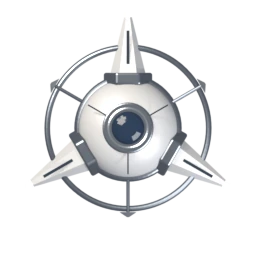
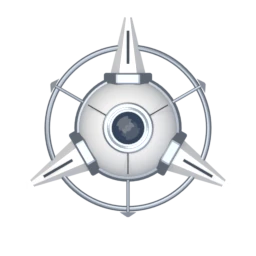
feat(render): forged drones turn slowly; a Ziele scene in the look gallery
The drone turns and hovers, each at its own pace and direction. Its Blender render now has soft
overhead light, and the field's light is put over the turned hull in code so it stays put.
The look gallery gets a Ziele scene (the pilot and five target drones, built with newPlayer
as ChallengeMatch does); Zielhilfen no longer claims to show the daily target.

Changed region(s): [[0.125, 0.0625, 0.8438, 0.8438], [0.6562, 0.6875, 0.75, 0.7812]]

diff --git a/src/render/looks/forged.ts b/src/render/looks/forged.ts
@@ -191,10 +191,44 @@ const DRONE_SPAN = 32.5;
 const DRONE_LAMP = 14.5;
 const DRONE_PYLONS = [90, 210, 330];
 
+/** The drone is turned and lit on this canvas (`DRONE_PX` across) before it is drawn: the field's light does not turn with it. */
+const DRONE_PX = 256;
+let droneCanvas: HTMLCanvasElement | null = null;
+
+/** The hull turned by `angle`, shaded away from the field's light and glinting towards it. The shared canvas is only good until the next call. */
+function turnedDrone(ctx: CanvasRenderingContext2D, hull: HTMLCanvasElement, angle: number): HTMLCanvasElement {
+  const [lx, ly] = lightInFrame(ctx);
+  droneCanvas ??= Object.assign(document.createElement('canvas'), { width: DRONE_PX, height: DRONE_PX });
+  const c = droneCanvas.getContext('2d')!;
+  c.setTransform(1, 0, 0, 1, 0, 0);
+  c.globalCompositeOperation = 'source-over';
+  c.clearRect(0, 0, DRONE_PX, DRONE_PX);
+  const k = DRONE_PX / DRONE_SPAN;
+  c.setTransform(k, 0, 0, k, DRONE_PX / 2, DRONE_PX / 2);
+  c.save();
+  c.rotate(angle);
+  c.drawImage(hull, -DRONE_SPAN / 2, -DRONE_SPAN / 2, DRONE_SPAN, DRONE_SPAN);
+  c.restore();
+  c.globalCompositeOperation = 'source-atop';
+  const shade = c.createLinearGradient(lx * 13, ly * 13, -lx * 13, -ly * 13);
+  shade.addColorStop(0, 'rgba(255,248,235,0.22)');
+  shade.addColorStop(0.5, 'rgba(255,255,255,0)');
+  shade.addColorStop(1, 'rgba(4,8,20,0.5)');
+  c.fillStyle = shade;
+  c.fillRect(-DRONE_SPAN, -DRONE_SPAN, DRONE_SPAN * 2, DRONE_SPAN * 2);
+  const glint = c.createRadialGradient(lx * 6, ly * 6, 0, lx * 6, ly * 6, 9);
+  glint.addColorStop(0, 'rgba(255,255,255,0.3)');
+  glint.addColorStop(1, 'rgba(255,255,255,0)');
+  c.fillStyle = glint;
+  c.fillRect(-DRONE_SPAN, -DRONE_SPAN, DRONE_SPAN * 2, DRONE_SPAN * 2);
+  c.globalCompositeOperation = 'source-over';
+  return droneCanvas;
+}
+
 /**
  * The target of a daily challenge: a rendered space drone, an armoured orb with a lens, three blade pylons and an orbit
- * ring, in the target's colour and hovering in the ring of its hit box. The hull keeps the light it was rendered in; the
- * lens breathes and the pylon lamps blink in code. Until the images have loaded, the engraved diamond stands in.
+ * ring, in the target's colour, hovering and turning slowly in the ring of its hit box. The field's light is put over the hull
+ * in code, so it stays where it is as the drone turns; the lens breathes and the pylon lamps blink. Until the images have loaded, the engraved diamond stands in.
  */
 export function drawForgedTarget(ctx: CanvasRenderingContext2D, x: number, y: number, color: string, time: number): void {
   const hull = painted('drone', 'droneMask', color);
@@ -228,9 +262,12 @@ export function drawForgedTarget(ctx: CanvasRenderingContext2D, x: number, y: nu
 
   ctx.save();
   ctx.translate(x, y);
-  // the field's light does not turn with the drone, so the hull stays where it was rendered; a slow hover is all it does
+  // a slow hover, and a slow turn (every drone its own way and pace)
   ctx.translate(0, Math.sin(time * 1.6 + phase) * 0.7);
-  ctx.drawImage(hull, -DRONE_SPAN / 2, -DRONE_SPAN / 2, DRONE_SPAN, DRONE_SPAN);
+  const turn = ((Math.floor(x / 7) + Math.floor(y / 5)) % 2 ? 1 : -1) * (0.16 + 0.05 * ((Math.abs(x * 3 + y) % 7) / 7));
+  const angle = time * turn + phase * 40;
+  ctx.drawImage(turnedDrone(ctx, hull, angle), -DRONE_SPAN / 2, -DRONE_SPAN / 2, DRONE_SPAN, DRONE_SPAN);
+  ctx.rotate(angle);
   ctx.globalCompositeOperation = 'lighter';
   // the lens in the orb's top: a lit eye that breathes
   const eye = ctx.createRadialGradient(0, 0, 0, 0, 0, 4.2);

diff --git a/src/debug/looks-gallery.ts b/src/debug/looks-gallery.ts
@@ -5,6 +5,7 @@ import '@fontsource/b612-mono/400';
 import '@fontsource/b612-mono/700';
 import './looks-gallery.css';
 import { createMatch, type Match, type Scene as FieldScene } from '../game';
+import { newPlayer } from '../game/match';
 import { DEFAULT_SETTINGS, type Seat } from '../data/settings';
 import { LOOKS as LOOK_IDS, lookLabelKey, setLook, type Look } from '../data/look';
 import { t } from '../platform/i18n';
@@ -49,6 +50,7 @@ const settings = (seats: Seat[], extra: Partial<typeof DEFAULT_SETTINGS> = {}) =
 });
 
 const HUMANS: Seat[] = ['human', 'human', 'human', 'off', 'off', 'off'];
+const SIX: Seat[] = ['human', 'human', 'human', 'human', 'human', 'human'];
 
 interface Card {
   look: Look;
@@ -326,7 +328,7 @@ const SCENES: Scene[] = [
   },
   {
     title: 'Zielhilfen',
-    sub: 'Zielvektor, Vorschau-Pfad, Schussuhr, gesperrtes Schiff, Schonfrist, Sudden-Death-Zug, Ziel der Tagesaufgabe, Schuss außerhalb des Felds',
+    sub: 'Zielvektor, Vorschau-Pfad, Schussuhr, gesperrtes Schiff, Schonfrist, Sudden-Death-Zug, Schuss außerhalb des Felds',
     build: () => {
       const match = aiming('classic', 11, { powerUps: true });
       match.pickups = [];
@@ -343,6 +345,17 @@ const SCENES: Scene[] = [
         preview,
         volley: { shots: [{ owner: 1, trail: [1200, 400, 1330, 360], shot: { x: 1330, y: 360, vx: 80, vy: -30, inField: false, end: null, missiles: [] } }] } as unknown as FieldScene['volley'],
       }));
+      return match;
+    },
+  },
+  {
+    title: 'Ziele',
+    sub: 'Die Zielscheiben der Tagesaufgabe: das eigene Schiff und fünf stillstehende Drohnen, so wie das Spiel sie anlegt (rot, mit Trefferring)',
+    build: () => {
+      const match = createMatch('classic', settings(SIX), { seats: SIX, names: ['Ash', 'Bo', 'Cy', 'Di', 'Ed', 'Flo'], seed: 11 });
+      match.phase = 'aiming';
+      // As `ChallengeMatch` does: ship 0 is the pilot, every other ship a target drone.
+      match.players = match.players.map((p, id) => (id === 0 ? p : newPlayer(id, id, 'easy', null, true)));
       return match;
     },
   },

diff --git a/scripts/forged/render_assets.py b/scripts/forged/render_assets.py
@@ -596,10 +596,11 @@ def build_drone(out):
         bpy.ops.mesh.primitive_cone_add(vertices=24, radius1=0.085, radius2=0.01, depth=0.05, location=(ca * 0.88, sa * 0.88, zc + 0.02), rotation=(0, math.radians(90), a))
         bpy.context.active_object.data.materials.append(bright)
 
+    # soft, mostly overhead light: the drone turns in the game, so `forged.ts` adds the field's own light over the render
     camera(sc, (0, 0, 8), 2.6)
-    light(sc, 'key', (-3, 3.5, 5), 520, hex2c('#fff1d6'), 4)
-    light(sc, 'rim', (3, -3, 3), 220, hex2c('#ffffff'), 3)
-    world(sc, '#808a99', 0.35)
+    light(sc, 'key', (-1.2, 1.4, 6), 330, hex2c('#fff1d6'), 6)
+    light(sc, 'rim', (1.2, -1.4, 5), 150, hex2c('#ffffff'), 6)
+    world(sc, '#808a99', 0.6)
     try:
         sc.eevee.use_raytracing = True
     except Exception:
